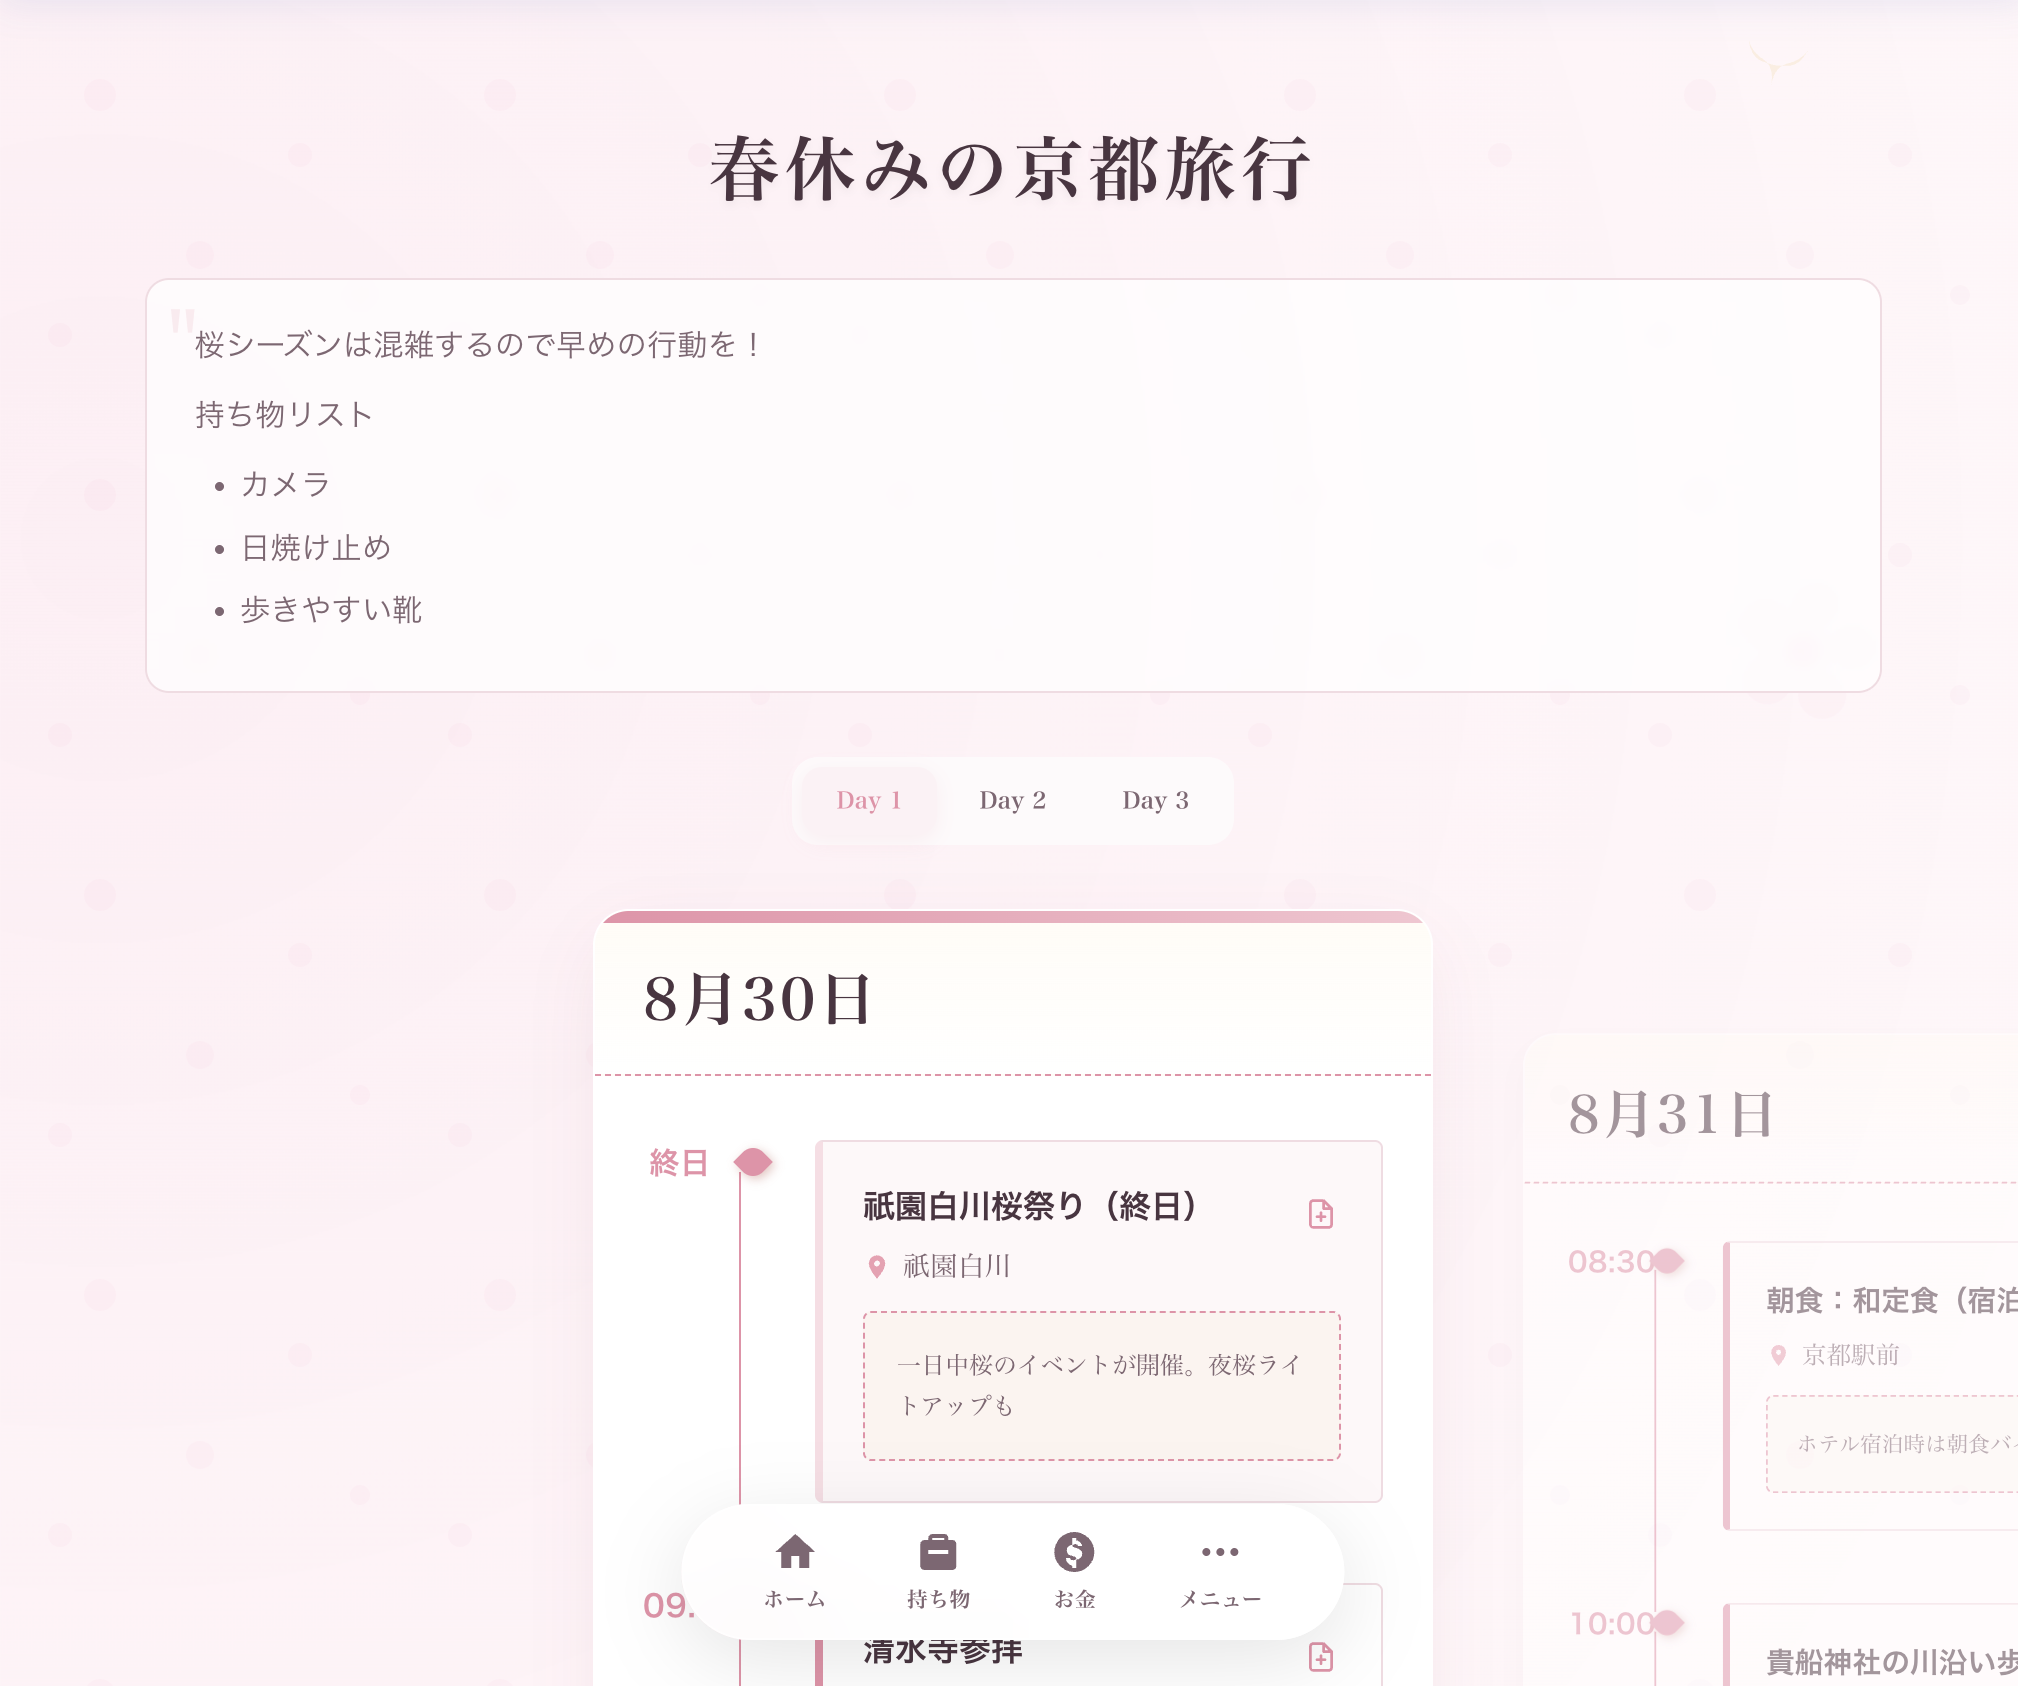
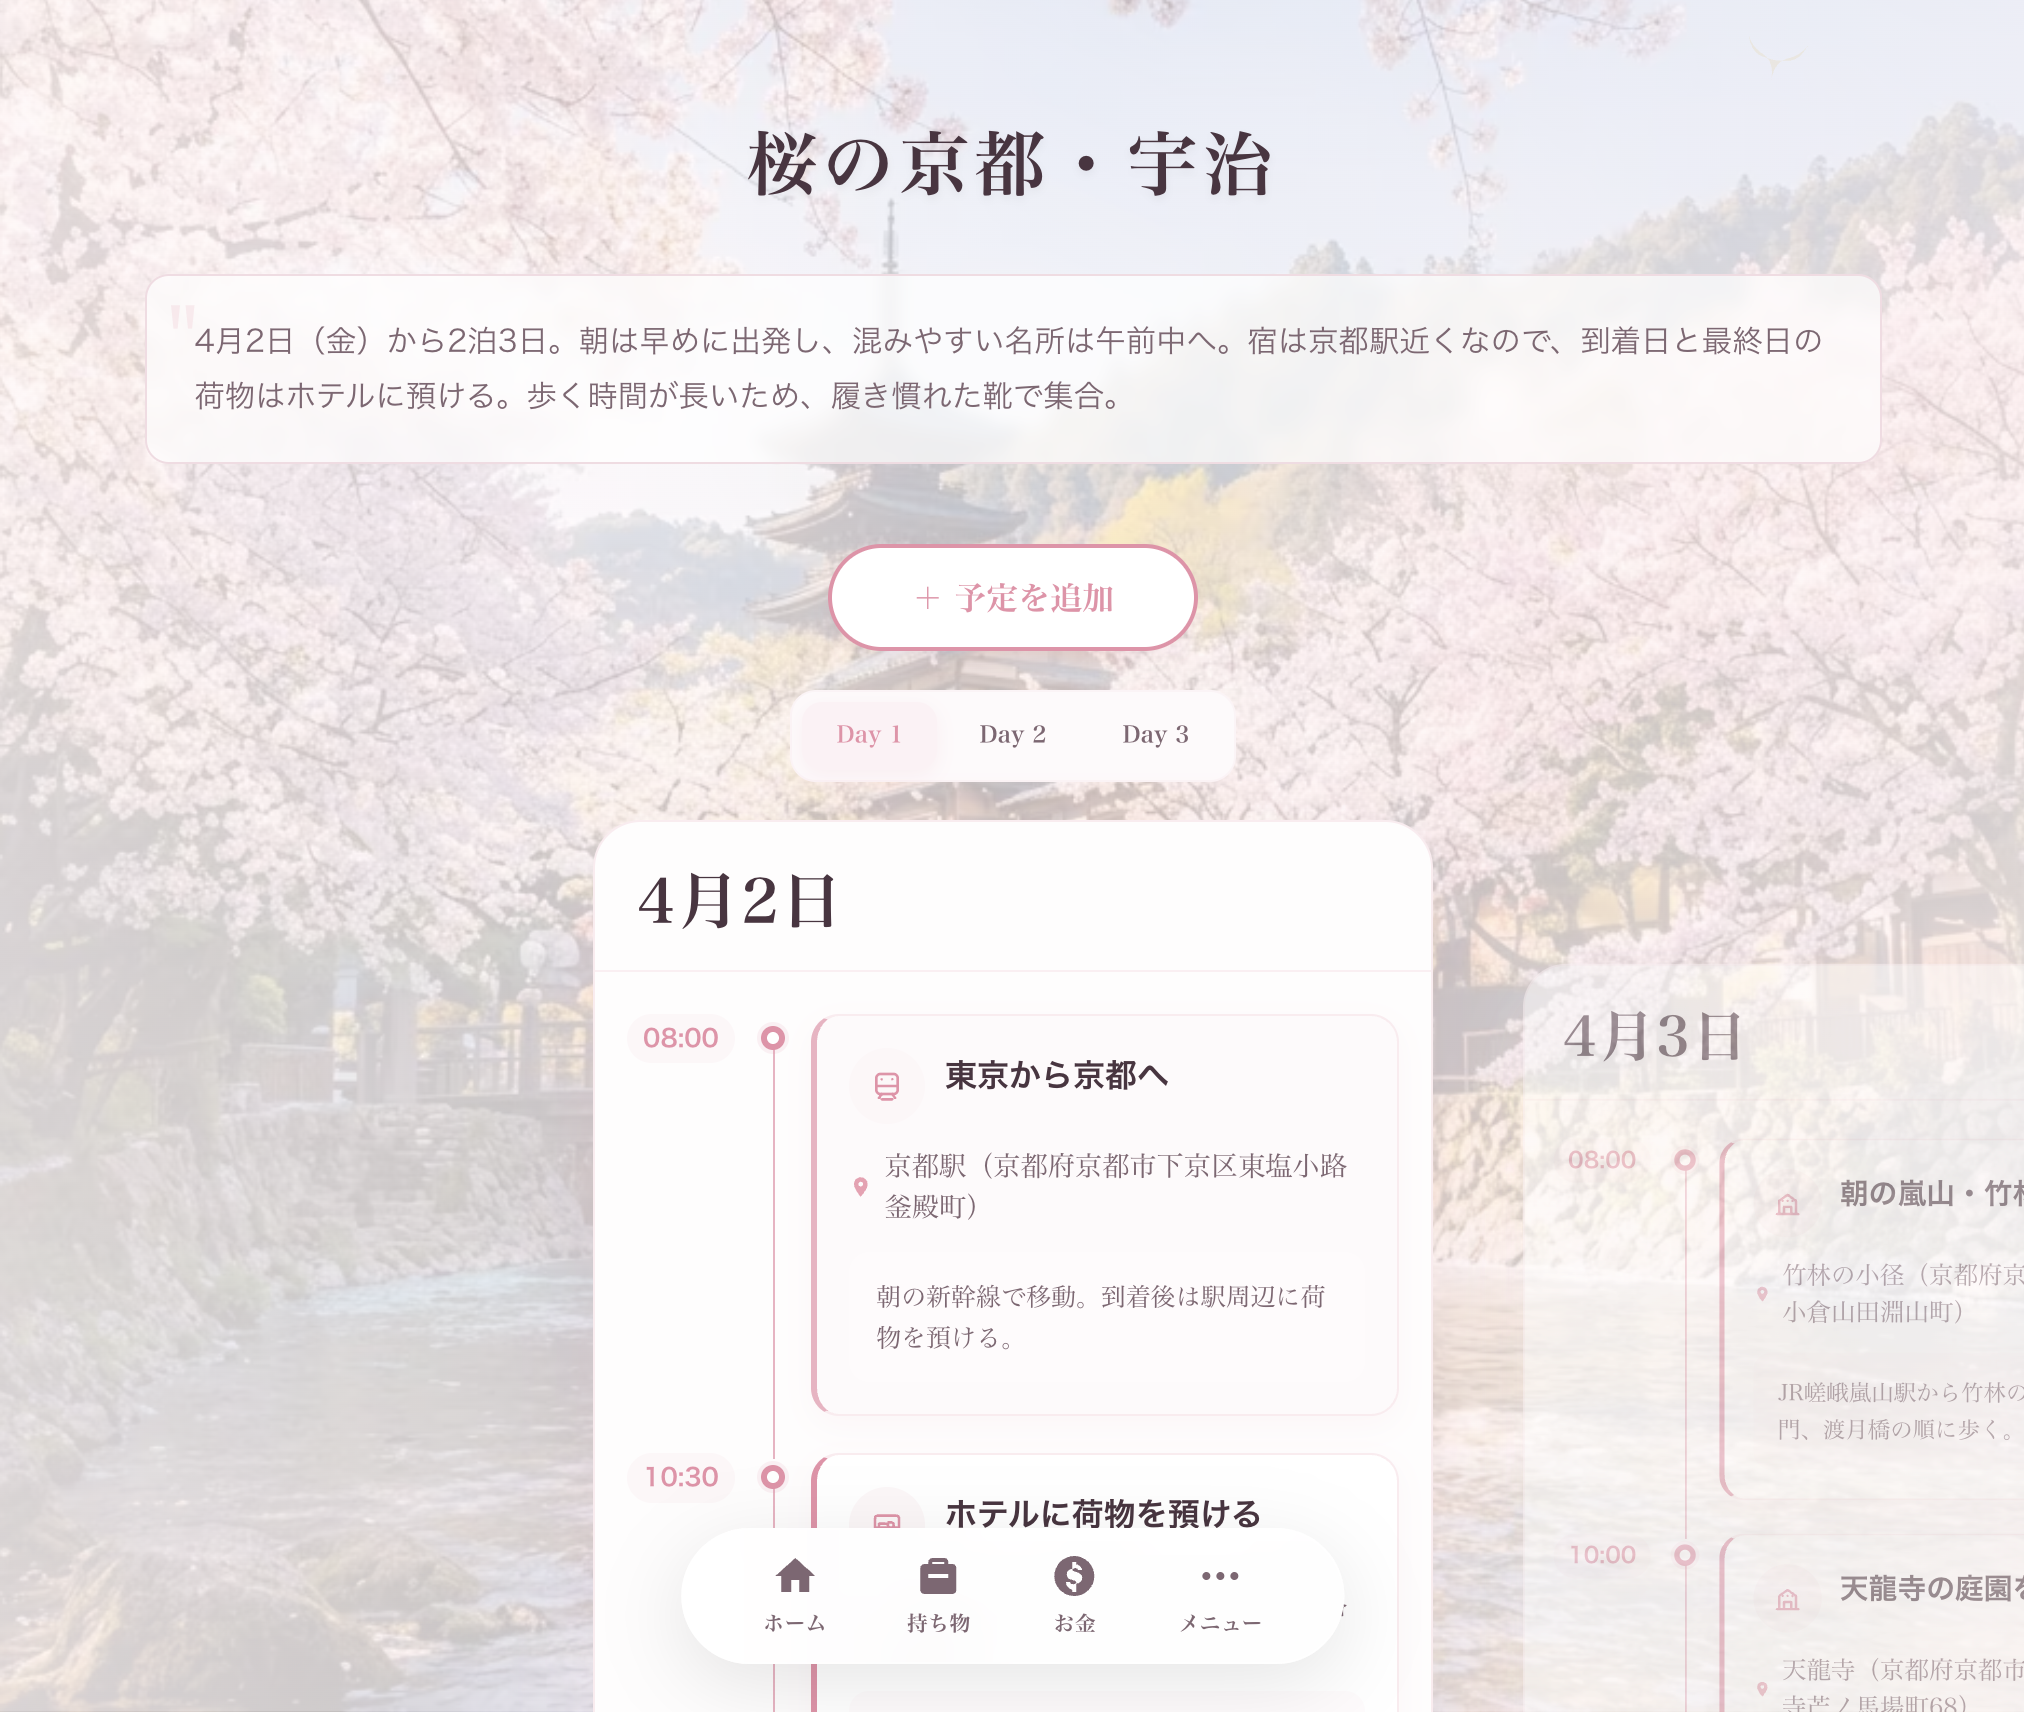
fix: READMEを更新し、テーマに関連する画像を追加・削除

diff --git a/README.md b/README.md
@@ -15,9 +15,11 @@
 
 ### 2. 様々な機能
 
-テーマによって見た目を変えたり、旅行であると助かる機能を搭載しています。
+テーマによって見た目を変えたり、旅行にあると助かる機能を搭載しています。
 
 
 <a href="https://tabitabi.pages.dev/itineraries/official-spring-public"><img src="./docs/assets/theme/daycard.png" alt="day-card" width="400"/></a> <a href="https://tabitabi.pages.dev/itineraries/official-summer-public"><img src="./docs/assets/theme/list.png" alt="list" width="400"/></a>
 
-<a href="https://tabitabi.pages.dev/itineraries/official-autumn-public"><img src="./docs/assets/theme/section2.png" alt="section" width="400"/></a> <a href="https://tabitabi.pages.dev"><img src="./docs/assets/theme/planning.png" alt="planning" width="400"/></a>
+<a href="https://tabitabi.pages.dev/itineraries/official-autumn-public"><img src="./docs/assets/theme/week.png" alt="week" width="400"/> <a href="https://tabitabi.pages.dev/itineraries/official-autumn-public"><img src="./docs/assets/theme/month.png" alt="month" width="400"/></a>
+
+<a href="https://tabitabi.pages.dev/itineraries/official-map-public"><img src="./docs/assets/theme/plan-map.png" alt="plan-map" width="400"/> </a><a href="https://tabitabi.pages.dev/itineraries/official-plan-public"><img src="./docs/assets/theme/plan-draft.png" alt="plan-draft" width="400"/></a>
